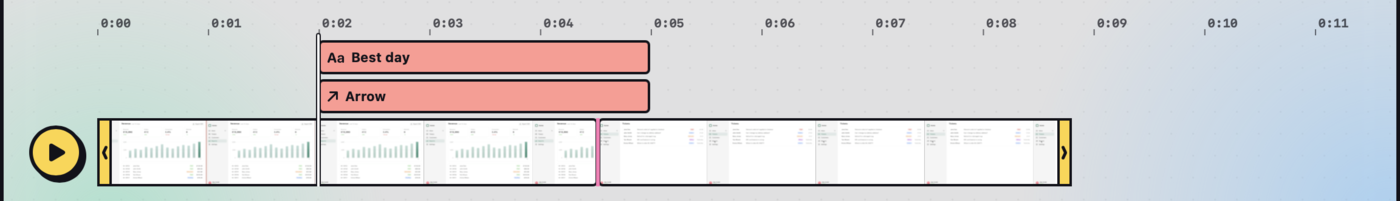
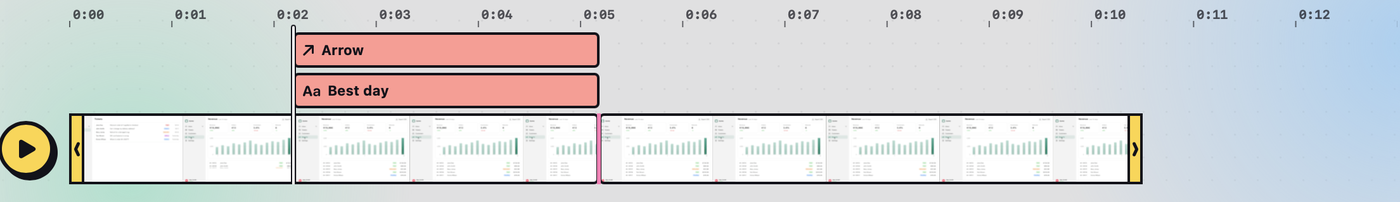
docs: reshoot the video editor pictures and the Quick Access menu
The video editor now says More tools instead of Tracks, and the card menu
no longer has Copy Text.

Part of #1024

diff --git a/site/src/guide/06c-export-a-video-or-gif.md b/site/src/guide/06c-export-a-video-or-gif.md
@@ -4,7 +4,7 @@ summary: "Export an MP4 or a GIF at the size, frame rate and speed you want, and
 group: Edit and share
 ---
 
-![The video editor with a cut where the recording went to another page, a Best day label and an arrow over the video, and the GIF export options](../../../docs/media/video-editor.png)
+![The video editor with More tools open: a cut in the recording, a Best day label and an arrow over the video, the annotation tools, and the GIF export options](../../../docs/media/video-editor.png)
 
 ## Export
 

diff --git a/site/src/guide/06a-edit-a-recording.md b/site/src/guide/06a-edit-a-recording.md
@@ -4,7 +4,7 @@ summary: "Trim, cut, split, crop and add clips to a recording, then save it."
 group: Edit and share
 ---
 
-![The video editor timeline with a text label and an arrow on their own lanes above the clips, and the pink seam where a cut was made](../../../docs/media/video-timeline.png)
+![The video editor timeline with an arrow and a text label on their own lanes above the clips, and the pink seam where a cut was made](../../../docs/media/video-timeline.png)
 
 ## Open the video editor
 

diff --git a/README.md b/README.md
@@ -55,7 +55,7 @@
 
 ### Trim and export to GIF
 
-<img src="docs/media/video-editor.png" width="720" alt="The video editor with a cut where the recording went to another page, a Best day label and an arrow over the video, and the GIF export options">
+<img src="docs/media/video-editor.png" width="720" alt="The video editor with More tools open: a cut in the recording, a Best day label and an arrow over the video, the annotation tools, and the GIF export options">
 
 ## Install
 
